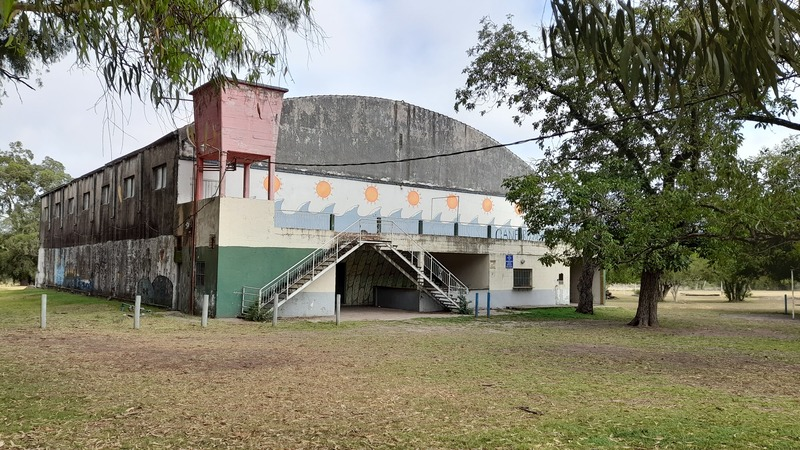
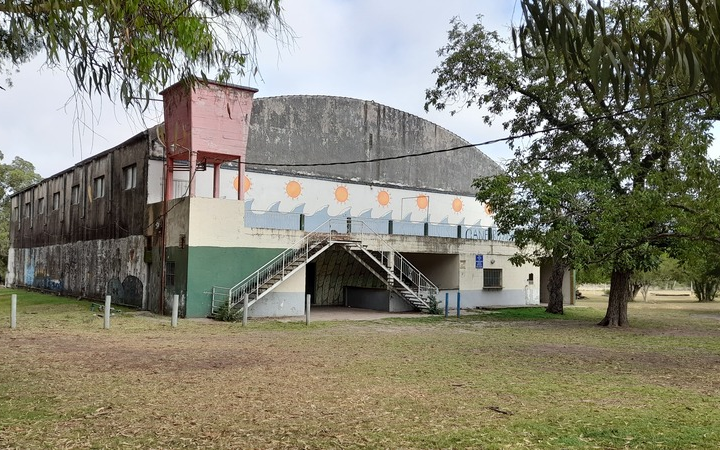
Modifico tamaño img Servicios

diff --git a/src/pages/Servicios/Servicios.css b/src/pages/Servicios/Servicios.css
@@ -6,7 +6,6 @@
     padding: 0 80px;
     padding-top: 66.5px;
     padding-bottom: 130px;
-    justify-content: center;
 } 
 
 .servicios-title {
@@ -28,9 +27,7 @@
   .gallery-images {
     display: grid;
     grid-template-columns: repeat(4, 1fr);
-    grid-auto-flow: dense;
     grid-gap: 20px;
-    justify-content: center;
   }
 
   .card-image-container {
@@ -41,7 +38,7 @@
   .card-image-container:hover {
     transform: scale(1.05);
     transition: ease 0.7s;
-    z-index: 2;
+    z-index: 3;
   }
 
   .image-container {
@@ -50,8 +47,9 @@
 
   .image-container img {
     display: block;
-    width: 305px;
-    height: 200px;
+    width: 100%;
+    height: auto;
+    border-radius: 5px;
   }
 
   .caption {
